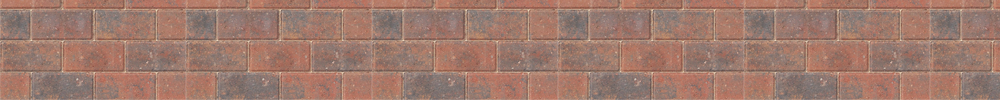
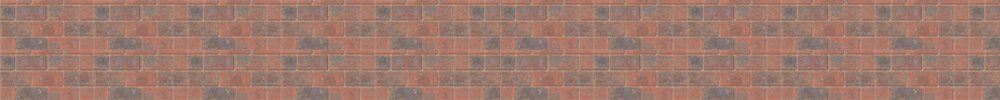
new update

diff --git a/src/definition_library.hpp b/src/definition_library.hpp
@@ -23,7 +23,7 @@ using namespace sf;
 #define CAR_PER_LANE 3
 
 #define WORKING_DIR std::filesystem::current_path().string()
-#define PAVEMENT_IMAGE_FILE_PATH WORKING_DIR+"/src_design/environment/pavement.png"
+#define PAVEMENT_IMAGE_FILE_PATH WORKING_DIR+"/src_design/environment/8bit_pavement.png"
 #define LEFT_BOTTOMDASH_NORMAL_FILE_PATH WORKING_DIR+"/src_design/environment/left-bottomdash-normal.png"
 #define LEFT_BOTTOMDASH_TOP_FILE_PATH WORKING_DIR+"/src_design/environment/left-bottomdash-top.png"
 #define LEFT_FULLDASH_NORMAL_FILE_PATH WORKING_DIR+"/src_design/environment/left-fulldash-normal.png"
@@ -42,41 +42,41 @@ using namespace sf;
 #define RIGHT_NOLINE_FILE_PATH WORKING_DIR+"/src_design/environment/right-noline.png"
 #define RIGHT_TOPDASH_BOTTOM_FILE_PATH WORKING_DIR+"/src_design/environment/right-topdash-bottom.png"
 #define RIGHT_TOPDASH_NORMAL_FILE_PATH WORKING_DIR+"/src_design/environment/right-topdash-normal.png"
-#define RIVER_FILE_PATH WORKING_DIR+"/src_design/environment/river.png"
-#define TRAFFIC_SIGN_RED_FILE_PATH WORKING_DIR+"/src_design/environment/trafficsign_red.png"
-#define TRAFFIC_SIGN_YELLOW_FILE_PATH WORKING_DIR+"/src_design/environment/trafficsign_yellow.png"
-#define TRAFFIC_SIGN_GREEN_FILE_PATH WORKING_DIR+"/src_design/environment/trafficsign_green.png"
+#define RIVER_FILE_PATH WORKING_DIR+"/src_design/environment/8bit_river.png"
+#define TRAFFIC_SIGN_RED_FILE_PATH WORKING_DIR+"/src_design/environment/8bit_trafficsign_red.png"
+#define TRAFFIC_SIGN_YELLOW_FILE_PATH WORKING_DIR+"/src_design/environment/8bit_trafficsign_yellow.png"
+#define TRAFFIC_SIGN_GREEN_FILE_PATH WORKING_DIR+"/src_design/environment/8bit_trafficsign_green.png"
 
-#define MARIO_FORWARD_FILE_PATH WORKING_DIR+"/src_design/people/mario_forward.png"
-#define MARIO_DOWNWARD_FILE_PATH WORKING_DIR+"/src_design/people/mario_down.png"
-#define MARIO_RIGHT_FILE_PATH WORKING_DIR+"/src_design/people/mario_right.png"
-#define MARIO_LEFT_FILE_PATH WORKING_DIR+"/src_design/people/mario_left.png"
+#define MARIO_FORWARD_FILE_PATH WORKING_DIR+"/src_design/people/8bit_mario_forward.png"
+#define MARIO_DOWNWARD_FILE_PATH WORKING_DIR+"/src_design/people/8bit_mario_down.png"
+#define MARIO_RIGHT_FILE_PATH WORKING_DIR+"/src_design/people/8bit_mario_right.png"
+#define MARIO_LEFT_FILE_PATH WORKING_DIR+"/src_design/people/8bit_mario_left.png"
 
-#define CL_0 WORKING_DIR+"/src_design/vehicle/CL_0.png"
-#define CL_1 WORKING_DIR+"/src_design/vehicle/CL_1.png"
-#define CL_2 WORKING_DIR+"/src_design/vehicle/CL_2.png"
-#define CL_3 WORKING_DIR+"/src_design/vehicle/CL_3.png"
-#define CL_4 WORKING_DIR+"/src_design/vehicle/CL_4.png"
-#define CL_5 WORKING_DIR+"/src_design/vehicle/CL_5.png"
-#define CL_6 WORKING_DIR+"/src_design/vehicle/CL_6.png"
-#define CL_7 WORKING_DIR+"/src_design/vehicle/CL_7.png"
-#define CL_8 WORKING_DIR+"/src_design/vehicle/CL_8.png"
-#define CR_0 WORKING_DIR+"/src_design/vehicle/CR_0.png"
-#define CR_1 WORKING_DIR+"/src_design/vehicle/CR_1.png"
-#define CR_2 WORKING_DIR+"/src_design/vehicle/CR_2.png"
-#define CR_3 WORKING_DIR+"/src_design/vehicle/CR_3.png"
-#define CR_4 WORKING_DIR+"/src_design/vehicle/CR_4.png"
-#define CR_5 WORKING_DIR+"/src_design/vehicle/CR_5.png"
-#define CR_6 WORKING_DIR+"/src_design/vehicle/CR_6.png"
-#define CR_7 WORKING_DIR+"/src_design/vehicle/CR_7.png"
-#define CR_8 WORKING_DIR+"/src_design/vehicle/CR_8.png"
+#define CL_0 WORKING_DIR+"/src_design/vehicle/8bit_CL_0.png"
+#define CL_1 WORKING_DIR+"/src_design/vehicle/8bit_CL_1.png"
+#define CL_2 WORKING_DIR+"/src_design/vehicle/8bit_CL_2.png"
+#define CL_3 WORKING_DIR+"/src_design/vehicle/8bit_CL_3.png"
+#define CL_4 WORKING_DIR+"/src_design/vehicle/8bit_CL_4.png"
+#define CL_5 WORKING_DIR+"/src_design/vehicle/8bit_CL_5.png"
+#define CL_6 WORKING_DIR+"/src_design/vehicle/8bit_CL_6.png"
+#define CL_7 WORKING_DIR+"/src_design/vehicle/8bit_CL_7.png"
+#define CL_8 WORKING_DIR+"/src_design/vehicle/8bit_CL_8.png"
+#define CR_0 WORKING_DIR+"/src_design/vehicle/8bit_CR_0.png"
+#define CR_1 WORKING_DIR+"/src_design/vehicle/8bit_CR_1.png"
+#define CR_2 WORKING_DIR+"/src_design/vehicle/8bit_CR_2.png"
+#define CR_3 WORKING_DIR+"/src_design/vehicle/8bit_CR_3.png"
+#define CR_4 WORKING_DIR+"/src_design/vehicle/8bit_CR_4.png"
+#define CR_5 WORKING_DIR+"/src_design/vehicle/8bit_CR_5.png"
+#define CR_6 WORKING_DIR+"/src_design/vehicle/8bit_CR_6.png"
+#define CR_7 WORKING_DIR+"/src_design/vehicle/8bit_CR_7.png"
+#define CR_8 WORKING_DIR+"/src_design/vehicle/8bit_CR_8.png"
 
-#define HIPPO_RIGHT_FILE_PATH WORKING_DIR+"/src_design/animal/zombie_right.png"
-#define HIPPO_LEFT_FILE_PATH WORKING_DIR+"/src_design/animal/zombie_left.png"
-#define CROC_RIGHT_FILE_PATH WORKING_DIR+"/src_design/animal/croc_right.png"
-#define CROC_LEFT_FILE_PATH WORKING_DIR+"/src_design/animal/croc_left.png"
+#define HIPPO_RIGHT_FILE_PATH WORKING_DIR+"/src_design/animal/8bit_zombie_right.png"
+#define HIPPO_LEFT_FILE_PATH WORKING_DIR+"/src_design/animal/8bit_zombie_left.png"
+#define CROC_RIGHT_FILE_PATH WORKING_DIR+"/src_design/animal/8bit_croc_right.png"
+#define CROC_LEFT_FILE_PATH WORKING_DIR+"/src_design/animal/8bit_croc_left.png"
 
-#define LOG_PATH WORKING_DIR+"/src_design/vehicle/log.png"
+#define LOG_PATH WORKING_DIR+"/src_design/vehicle/8bit_log.png"
 
 #define PATHWAY_TYPE 0
 #define PATHWAYLIGHT_TYPE 1

diff --git a/src/River.cpp b/src/River.cpp
@@ -209,6 +209,8 @@ void River::adjust_objects()
         
         else each->move_left();
         
+        each->adjust_objects();
+        
         if (each->position().out_of_screen(0))
         {
             delete float_objs[i];
@@ -230,13 +232,51 @@ void River::draw() {
 
 bool River::check_lost() {
     Position people_pos = people_position(), fpos;
+    
     bool direction = dir;
-    for(int i=0; i<float_objs.size(); i++){
+    
+    for(int i = 0; i < float_objs.size(); i++) {
+        
         fpos = float_objs[i]->position();
-        if(float_objs[i]->get_type() == 2 && people_pos.get_x() >= fpos.get_x() - 21 && people_pos.get_x() + 21<= fpos.get_x()+101)
+        if (float_objs[i]->get_type() == 2 && people_pos.get_x() >= fpos.get_x() - 21 && people_pos.get_x() + 21 <= fpos.get_x() + 101)
             return false;
     }
     return true;
 }
 
+void River::set_current(People*& mario)
+{
+    Lane::set_current(mario);
+    
+    Position mariop = Position(mario->get_position().x, mario->get_position().y);
+    
+    for (int i = 0; i < float_objs.size(); i++) {
+        
+        Position obj_p = float_objs[i]->position();
+        
+        if (mariop.inRect(obj_p))
+        {
+            float_objs[i]->setCurrent(mario);
+            
+            break;
+        }
+        
+    }
+    
+}
 
+void River::unset()
+{
+    
+    for (int i = 0; i < float_objs.size(); i++)
+    {
+        if (float_objs[i]->isCurrent())
+        {
+            float_objs[i]->unset();
+            break;
+        }
+    }
+    
+    
+    Lane::unset();
+}

diff --git a/src/Log.cpp b/src/Log.cpp
@@ -4,8 +4,12 @@ Log::Log(handler_ptr tools, bool dir, Position pos, float _speed) : floatObject(
 	sprite.setTexture(tools->resource_manager.get_texture("LOG"));
 }
 
-void Log::adjust() {
-
+void Log::adjust_objects()
+{
+    if(people)
+    {
+        people->go_to_position(position().get_x() + 25, position().get_y() - 10);
+    }
 }
 
 int Log::get_type() {
@@ -16,9 +20,17 @@ void Log::setCurrent(People*& mario) {
 	people = mario;
 }
 
+bool Log::isCurrent() {
+    return (people != nullptr);
+}
+
 Log::~Log() {
 	if (people) {
 		delete people;
 		people = nullptr;
 	}
+}
+
+void Log::unset() {
+    people = nullptr;
 }

diff --git a/src/Animal.hpp b/src/Animal.hpp
@@ -35,6 +35,12 @@ public:
     virtual int get_type() { return 0; }
 
     virtual void setCurrent(People*& people) {}
+    
+    virtual bool isCurrent() {return 0;}
+    
+    virtual void unset() {}
+    
+    virtual void adjust_objects() {}
 
     void locate_at(float x, float y);
     
@@ -79,6 +85,8 @@ public:
 
     int get_type();
     
+    void adjust();
+    
     /* END HERE */
 private:
     std::string get_hash_name();
@@ -98,7 +106,6 @@ public:
     ~Croc() {}
 
     int get_type();
-
     
     /* END HERE */
 private:

diff --git a/src/Lane.hpp b/src/Lane.hpp
@@ -47,15 +47,11 @@ public:
     
     bool out_scr();
     
-    void set_current(People*& mario);
-    
-    void unset();
+    void set_level(const Level& lev);
     
     bool is_current();
     
     int level();
-    
-    void set_level(const Level& lev);
     
     Position people_position();
     
@@ -83,7 +79,11 @@ public:
     
     virtual void run() {}
     
+    virtual void set_current(People*& mario);
+    
     virtual bool check_lost(){return false;};
+    
+    virtual void unset();
     
 /* END HERE */
     

diff --git a/src/Position.hpp b/src/Position.hpp
@@ -33,6 +33,15 @@ public:
         if (!type) return ((x < -100) | (x > SCREEN_WIDTH));
        return ((y < -100) | (y > SCREEN_HEIGHT));
     }
+    
+    bool inRect(Position& another)
+    {
+        if (x > another.get_x() + dsize) return false;
+        if (x < another.get_x()) return false;
+        if (y > another.get_y() + dsize) return false;
+        if (y < another.get_y()) return false;
+        return true;
+    }
 };
 
 

diff --git a/src/People.hpp b/src/People.hpp
@@ -35,7 +35,7 @@ public:
     void change_type (std::string type);
     void scroll();
     bool touch_border();
-    void go_to_position(int x, int y);
+    void go_to_position(float x, float y);
     void move (sf::Vector2f vec);
     bool is_alive();
     bool is_mid_height();

diff --git a/src/Log.hpp b/src/Log.hpp
@@ -9,11 +9,15 @@ public:
 
 	Log(handler_ptr tools, bool dir, Position pos, float _speed);
 
-	void adjust();
+	void adjust_objects();
 
 	int get_type();
 
 	void setCurrent(People*& people);
+    
+    bool isCurrent();
+    
+    void unset();
 
 	~Log();
 

diff --git a/src/People.cpp b/src/People.cpp
@@ -13,7 +13,7 @@ std::string People::type_path () const{
     return type_;
 }
 
-void People::go_to_position(int x, int y){
+void People::go_to_position(float x, float y){
     sp.setPosition(sf::Vector2f(x, y));
 }
 

diff --git a/src/LaneGenerator.cpp b/src/LaneGenerator.cpp
@@ -137,7 +137,7 @@ void LaneFactory::next_current(People*& mario)
     {
         lanes[t]->unset();
         
-        this->lanes[t + 1]->set_current(mario);
+        lanes[t + 1]->set_current(mario);
     }
 }
 

diff --git a/src/River.hpp b/src/River.hpp
@@ -40,6 +40,10 @@ public:
     
     bool check_lost();
     
+    void set_current(People*& mario);
+    
+    void unset();
+    
     /* END HERE */
     
 private:
